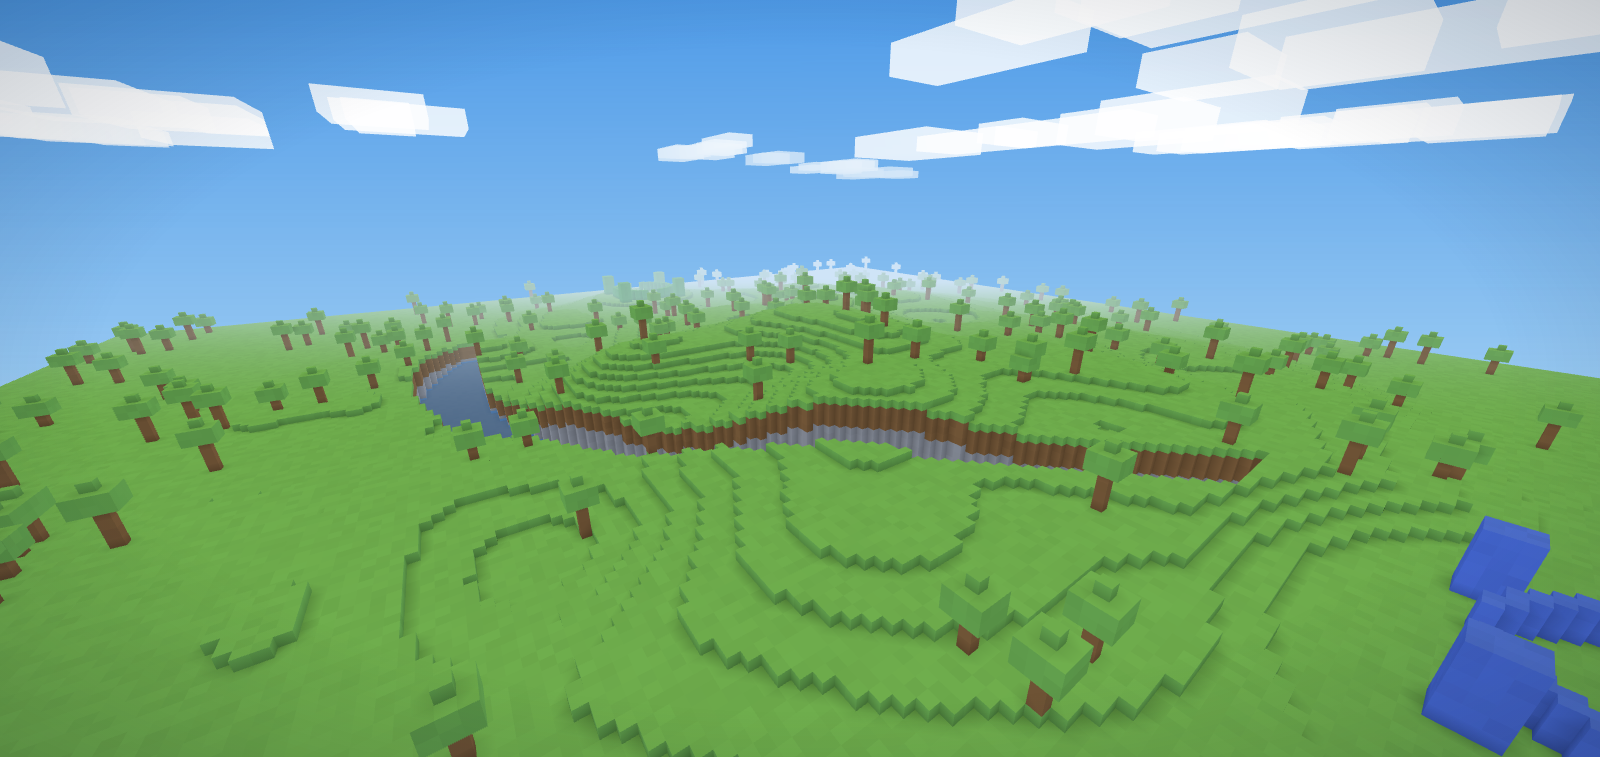
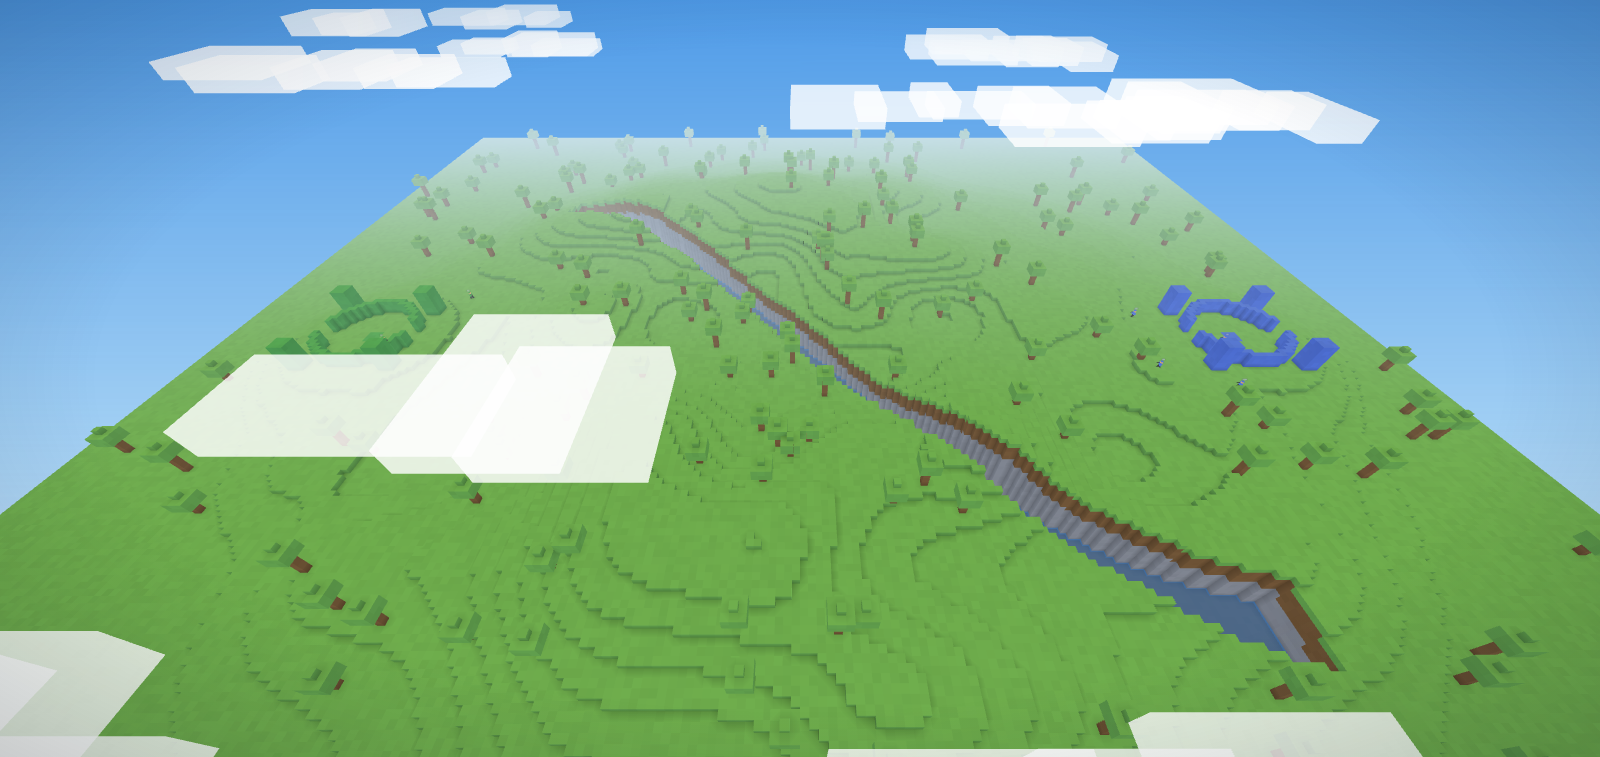
Pinefall creek always fords midfield

diff --git a/src/mapgen.js b/src/mapgen.js
@@ -262,8 +262,12 @@ function genForest(world, seed) {
         + rim * 18 * (0.6 * noise(x * 0.016, z * 0.016)
                     + 0.4 * noise(x * 0.05,  z * 0.05));
       // A winding creek carved just below the waterline — wide enough to
-      // matter as a midfield obstacle (and to fight along).
-      const creekZ = SZ / 2 + 58 * Math.sin(x * 0.017 + seed % 7);
+      // matter as a midfield obstacle (and to fight along). The meander is
+      // pinned to ford midfield: the old phase (seed % 7 in absolute x)
+      // could push every zero crossing outside the creek's x-range, so the
+      // base-to-base path never got wet. Now it always fords near x=128.
+      const ford = SX / 2 + ((seed % 5) - 2) * 6; // 116..140, varies by seed
+      const creekZ = SZ / 2 + 58 * Math.sin((x - ford) * 0.022);
       const cd = Math.abs(z - creekZ);
       if (cd < 5.5 && x > 60 && x < SX - 60) h = Math.min(h, SEA - 1);
       height[at(x, z)] = Math.min(SY - 8, h);
